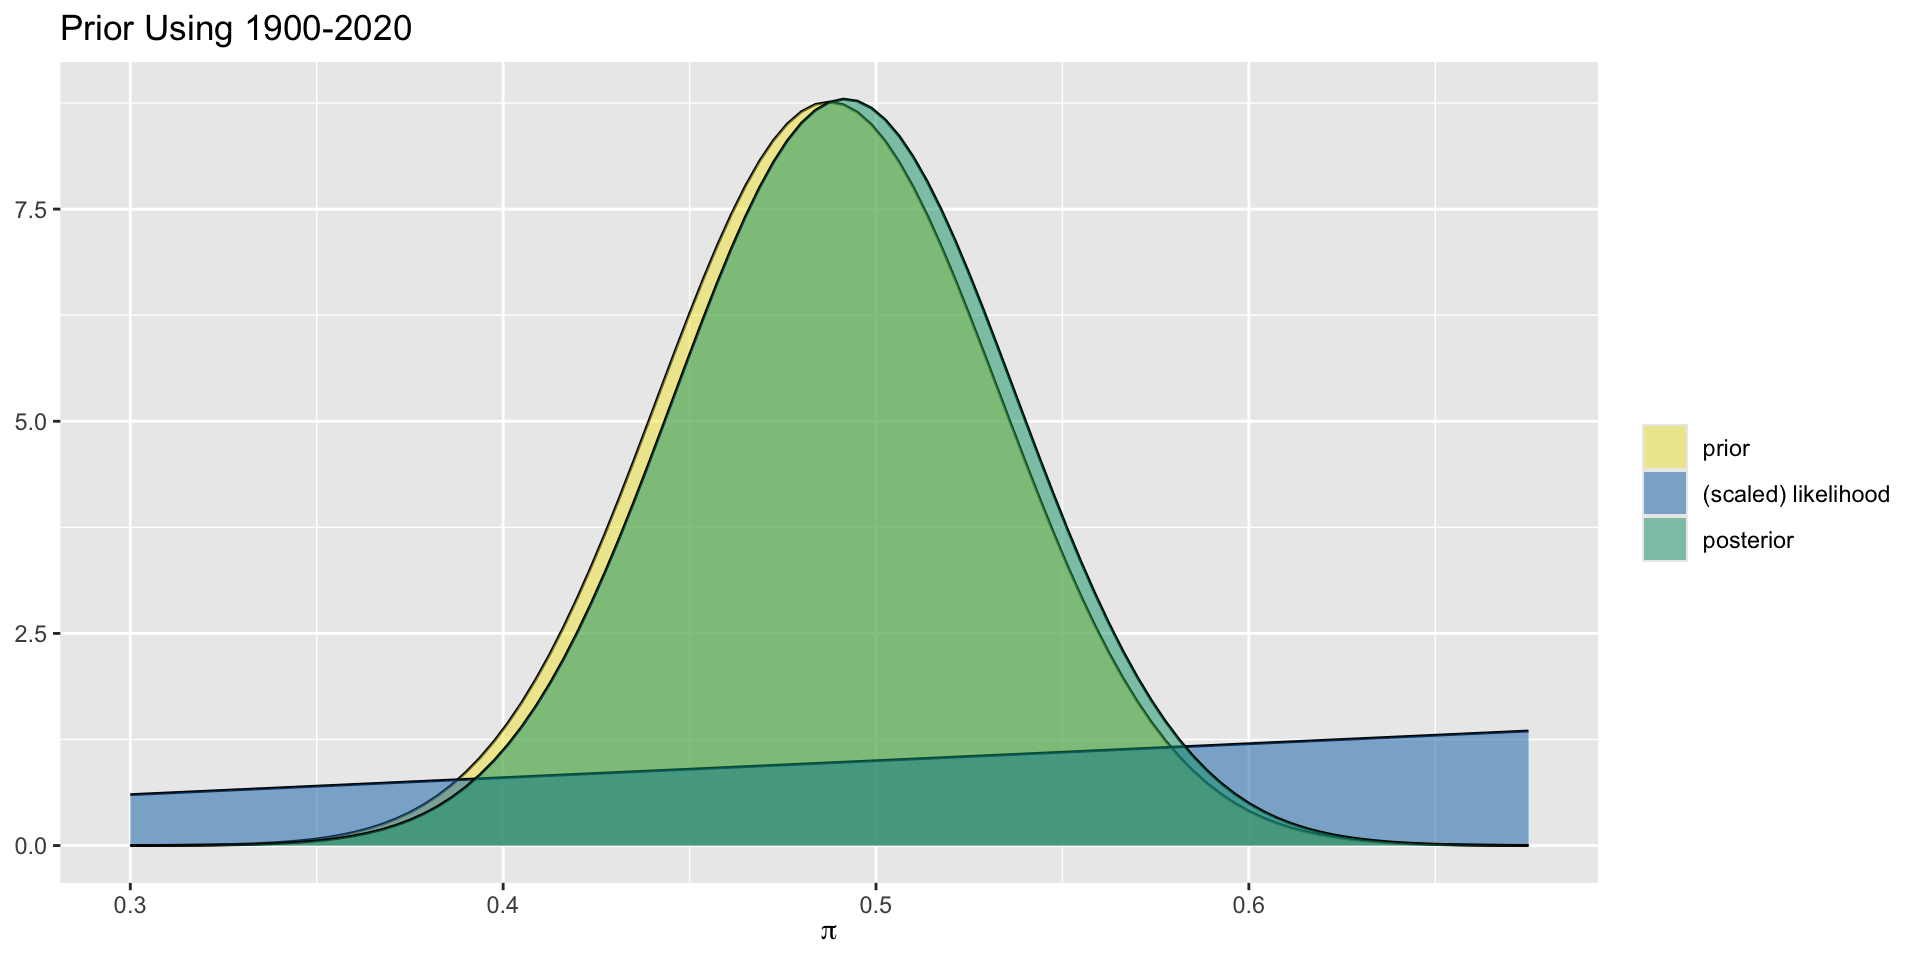
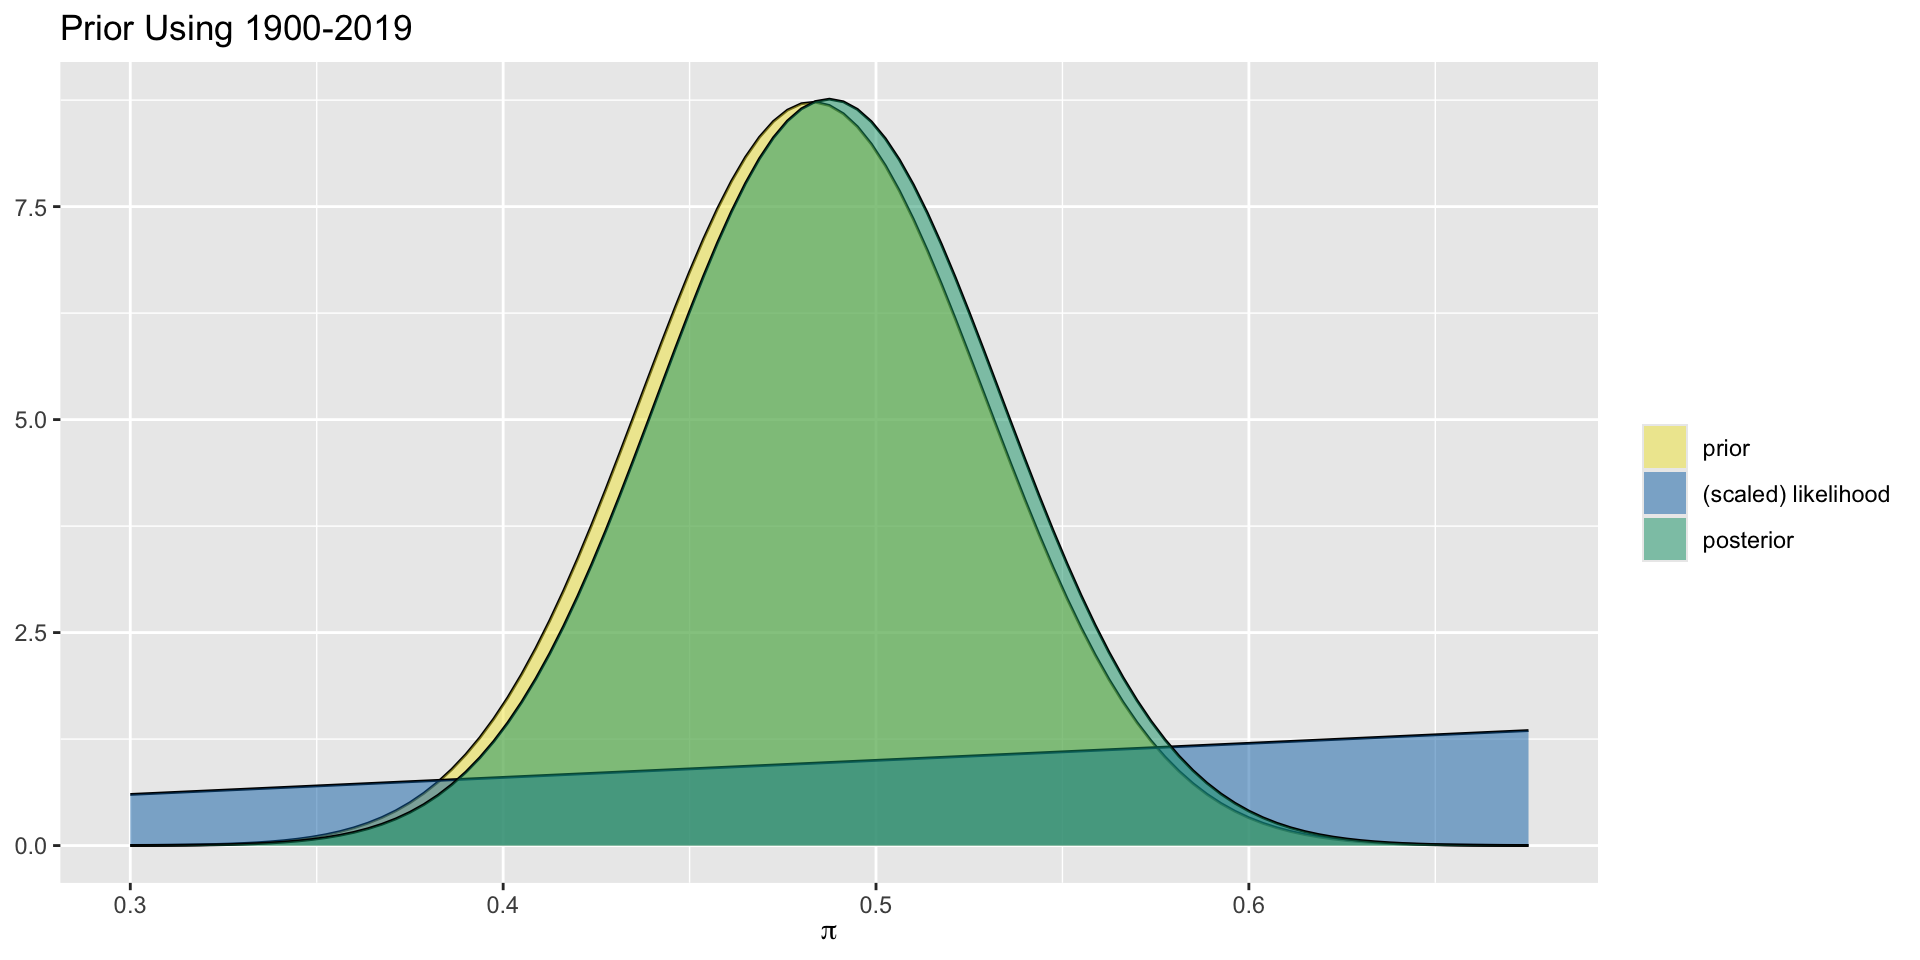
amy's day 2 am edits

diff --git a/day-2-simulations/1-lec-posterior-conjugate/1-lec-posterior-conjugate.html b/day-2-simulations/1-lec-posterior-conjugate/1-lec-posterior-conjugate.html
@@ -549,11 +549,11 @@
 </section>
 <section id="aside-more-informative-prior" class="slide level2">
 <h2>Aside: More Informative Prior</h2>
-<p>For the more informative prior, using 121 years of historical data, the prior and posterior are not exactly the same but are very close. We can focus in more closely to see the slight difference.</p>
+<p>For the more informative prior, using 120 years of historical data, the prior and posterior are not exactly the same but are very close. We can focus in more closely to see the slight difference.</p>
 <div class="cell">
-<div class="sourceCode cell-code" id="cb3"><pre class="sourceCode numberSource r number-lines code-with-copy"><code class="sourceCode r"><span id="cb3-1"><a href=""></a><span class="fu">plot_beta_binomial</span>(<span class="dv">59</span>, <span class="dv">62</span>, <span class="at">y =</span> <span class="dv">1</span>, <span class="at">n =</span> <span class="dv">1</span>) <span class="sc">+</span></span>
-<span id="cb3-2"><a href=""></a>  <span class="fu">labs</span>(<span class="at">title =</span> <span class="st">"Prior Using 1900-2020"</span>,<span class="at">y=</span><span class="cn">NULL</span>) <span class="sc">+</span> </span>
-<span id="cb3-3"><a href=""></a>  <span class="fu">xlim</span>(<span class="fl">0.3</span>,<span class="fl">0.675</span>)</span></code><button title="Copy to Clipboard" class="code-copy-button"><i class="bi"></i></button></pre></div>
+<div class="sourceCode cell-code" id="cb3"><pre class="sourceCode numberSource r number-lines code-with-copy"><code class="sourceCode r"><span id="cb3-1"><a href=""></a><span class="fu">plot_beta_binomial</span>(<span class="dv">58</span>, <span class="dv">62</span>, <span class="at">y =</span> <span class="dv">1</span>, <span class="at">n =</span> <span class="dv">1</span>) <span class="sc">+</span></span>
+<span id="cb3-2"><a href=""></a>  <span class="fu">labs</span>(<span class="at">title =</span> <span class="st">"Prior Using 1900-2019"</span>,<span class="at">y=</span><span class="cn">NULL</span>) <span class="sc">+</span> </span>
+<span id="cb3-3"><a href=""></a>  <span class="fu">xlim</span>(<span class="fl">0.3</span>,<span class="fl">0.675</span>) <span class="co">#zoom in x axis</span></span></code><button title="Copy to Clipboard" class="code-copy-button"><i class="bi"></i></button></pre></div>
 
 </div>
 <img data-src="1-lec-posterior-conjugate_files/figure-revealjs/unnamed-chunk-6-1.png" width="960" class="r-stretch"></section>
@@ -784,18 +784,18 @@ E(Y) &amp; = \text{ Mode}(Y) = \mu \\
 <img data-src="1-lec-posterior-conjugate_files/figure-revealjs/normal-tuning-1.png" width="1152" class="r-stretch"></section>
 <section id="normal-likelihood" class="slide level2">
 <h2>Normal Likelihood</h2>
-<p><span class="math display">\[L(\mu |\vec{y})= \prod_{i=1}^{n}L(\mu | y_i) = \prod_{i=1}^{n}\frac{1}{\sqrt{2\pi\sigma^2}} \exp\bigg[{-\frac{(y_i-\mu)^2}{2\sigma^2}}\bigg].\]</span></p>
+<p><span class="math display">\[L(\mu |\overrightarrow{y})= \prod_{i=1}^{n}L(\mu | y_i) = \prod_{i=1}^{n}\frac{1}{\sqrt{2\pi\sigma^2}} \exp\bigg[{-\frac{(y_i-\mu)^2}{2\sigma^2}}\bigg].\]</span></p>
 <p>Simplifying this up to a <em>proportionality</em> constant</p>
-<p><span class="math display">\[L(\mu |\vec{y}) \propto \prod_{i=1}^{n} \exp\bigg[{-\frac{(y_i-\mu)^2}{2\sigma^2}}\bigg] =  \exp\bigg[{-\frac{\sum_{i=1}^n (y_i-\mu)^2}{2\sigma^2}}\bigg] \; .\]</span></p>
+<p><span class="math display">\[L(\mu |\overrightarrow{y}) \propto \prod_{i=1}^{n} \exp\bigg[{-\frac{(y_i-\mu)^2}{2\sigma^2}}\bigg] =  \exp\bigg[{-\frac{\sum_{i=1}^n (y_i-\mu)^2}{2\sigma^2}}\bigg] \; .\]</span></p>
 <div class="fragment">
 <p><span class="math display">\[\begin{equation}
-L(\mu | \vec{y}) \propto \exp\bigg[{-\frac{(\bar{y}-\mu)^2}{2\sigma^2/n}}\bigg] \;\;\;\; \text{ for } \; \mu \in (-\infty, \infty).
+L(\mu | \overrightarrow{y}) \propto \exp\bigg[{-\frac{(\bar{y}-\mu)^2}{2\sigma^2/n}}\bigg] \;\;\;\; \text{ for } \; \mu \in (-\infty, \infty).
 \end{equation}\]</span></p>
 </div>
 </section>
 <section id="section-6" class="slide level2">
 <h2></h2>
-<p><span class="math display">\[L(\mu | \vec{y}) \propto \exp\bigg[{-\frac{(5.735-\mu)^2}{2(0.593^2/25)}}\bigg] \;\;\;\; \text{ for } \; \mu \in (-\infty, \infty),\]</span></p>
+<p><span class="math display">\[L(\mu | \overrightarrow{y}) \propto \exp\bigg[{-\frac{(5.735-\mu)^2}{2(0.593^2/25)}}\bigg] \;\;\;\; \text{ for } \; \mu \in (-\infty, \infty),\]</span></p>
 
 <img data-src="1-lec-posterior-conjugate_files/figure-revealjs/likelihood-hippocampus-ch5-1.png" width="960" class="r-stretch quarto-figure-center"><p class="caption">The joint Normal likelihood function for the mean hippocampal volume.</p></section>
 <section id="normal-prior-for-the-mean" class="slide level2">
@@ -820,7 +820,7 @@ f(\mu) = \frac{1}{\sqrt{2\pi\tau^2}} \exp\bigg[{-\frac{(\mu - \theta)^2}{2\tau^2
 Y_i | \mu &amp; \stackrel{ind}{\sim} N(\mu, \sigma^2) \\
 \mu &amp; \sim N(\theta, \tau^2) \\
 \end{split}\]</span></p>
-<p>Upon observing data <span class="math inline">\(\vec{y} = (y_1,y_2,\ldots,y_n)\)</span>, the posterior model of <span class="math inline">\(\mu\)</span> is <span class="math inline">\(N(\mu_n,\tau^2_n)\)</span>.</p>
+<p>Upon observing data <span class="math inline">\(\overrightarrow{y} = (y_1,y_2,\ldots,y_n)\)</span>, the posterior model of <span class="math inline">\(\mu\)</span> is <span class="math inline">\(N(\mu_n,\tau^2_n)\)</span>.</p>
 </section>
 <section id="normal-posterior" class="slide level2">
 <h2>Normal Posterior</h2>
@@ -838,9 +838,9 @@ Y_i | \mu &amp; \stackrel{ind}{\sim} N(\mu, \sigma^2) \\
 <h2>Back to Brains</h2>
 <p>For the hippocampus data, we selected the prior <span class="math inline">\(\mu \sim N(6.5, 0.5^2)\)</span>, and recall in our dataset the mean was 5.735 and sd was 0.593.</p>
 <p>The posterior model of <span class="math inline">\(\mu\)</span> is:</p>
-<p><span class="math display">\[\mu | \vec{y} \; \sim \; N\bigg(\frac{6.5*\frac{1}{0.5^2} + 5.735*\frac{25}{0.593^2}}{\frac{1}{0.5^2}+\frac{25}{0.593^2}}, \; \frac{1}{\frac{1}{0.5^2}+\frac{25}{0.593^2}}\bigg)\;,\]</span></p>
+<p><span class="math display">\[\mu | \overrightarrow{y} \; \sim \; N\bigg(\frac{6.5*\frac{1}{0.5^2} + 5.735*\frac{25}{0.593^2}}{\frac{1}{0.5^2}+\frac{25}{0.593^2}}, \; \frac{1}{\frac{1}{0.5^2}+\frac{25}{0.593^2}}\bigg)\;,\]</span></p>
 <p>or, further simplified,</p>
-<p><span class="math display">\[\mu | \vec{y} \; \sim \; N\bigg(5.776, 0.115^2 \bigg) \; .\]</span></p>
+<p><span class="math display">\[\mu | \overrightarrow{y} \; \sim \; N\bigg(5.776, 0.115^2 \bigg) \; .\]</span></p>
 </section>
 <section id="section-7" class="slide level2">
 <h2></h2>
